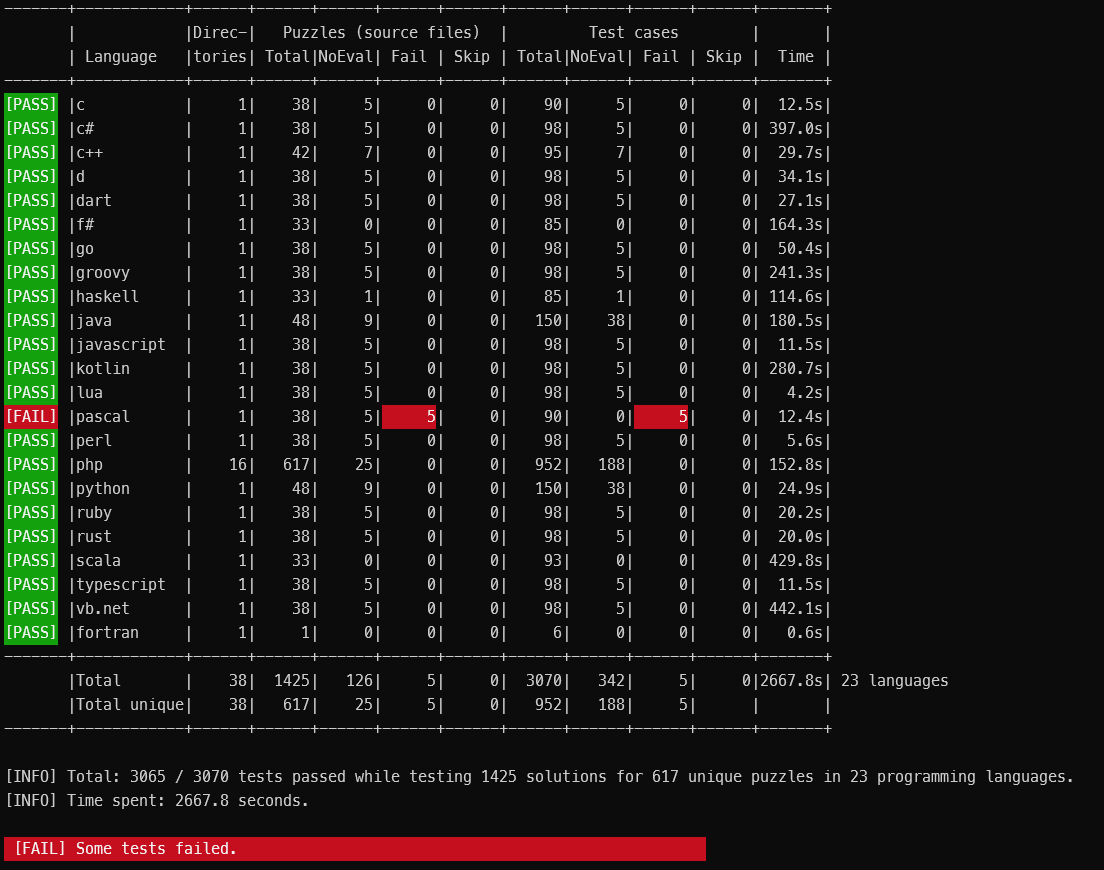
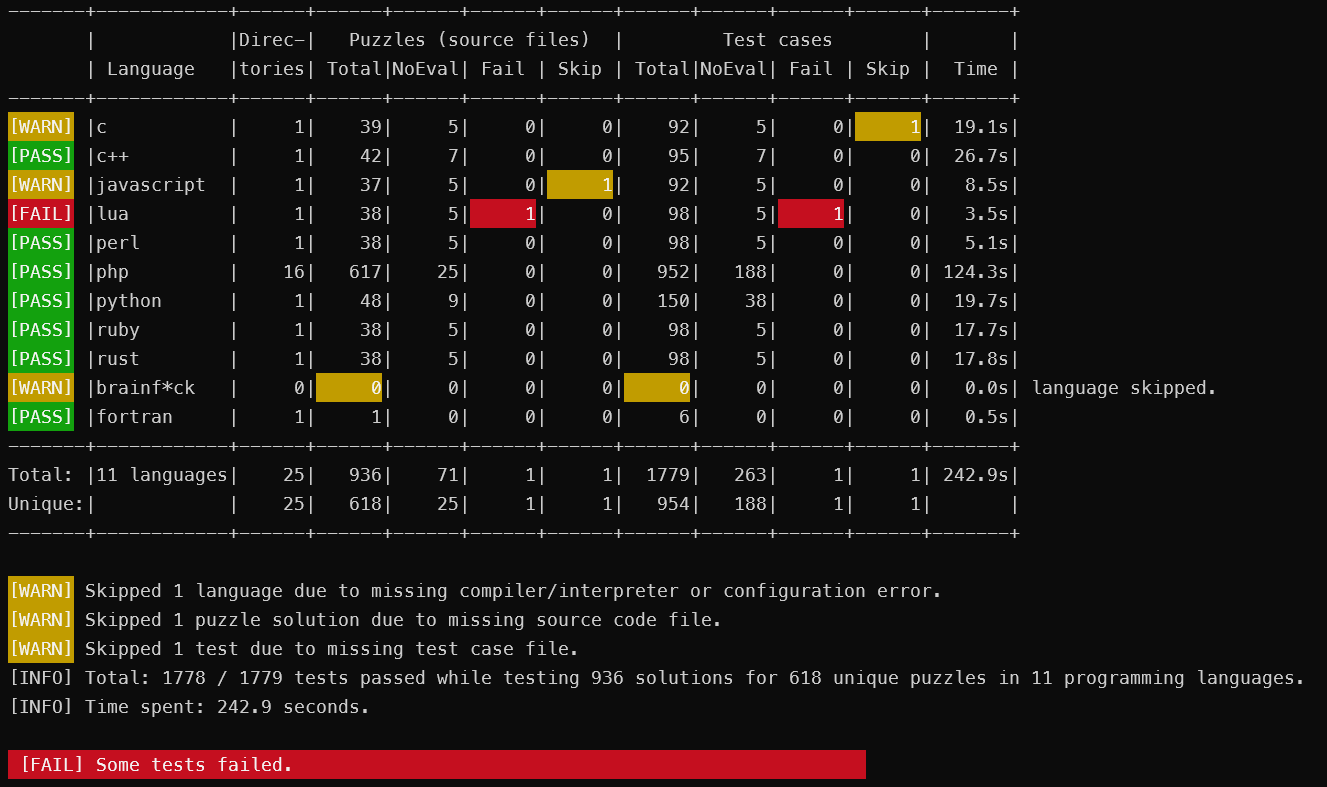
stats fixes

Changed region(s): [[0.0, 0.0, 0.9239, 1.0], [0.7699, 0.8539, 0.9855, 0.9149], [0.154, 0.3355, 0.1848, 0.3964]]

diff --git a/cgtest.php b/cgtest.php
@@ -25,6 +25,7 @@ namespace TBali\CGTest;
 $version = 'v1.4.0-dev';
 $zeroLanguageStat = [
     'countLanguages' => 0,
+    'countSkippedLanguages' => 0,
     'countDirectories' => 0,
     'countFiles' => 0,
     'countPassedFiles' => 0,
@@ -37,7 +38,6 @@ $zeroLanguageStat = [
     'countFailedTests' => 0,
     'countSkippedTests' => 0,
     'countDeletedFiles' => 0,
-    'countSkippedLanguages' => 0,
     'startTime' => 0,
     'spentTime' => 0,
 ];
@@ -1047,6 +1047,11 @@ foreach ($config['languages'] as $language) {
             // loop: for each test case for the puzzle
             while (true) {
                 ++$idxTest;
+                if ($idxTest >= 60) {
+                    echo $warnTag . 'Maximum number of test cases per puzzle is 60. Exceeded at: ' . $sourceFullFileName
+                        . PHP_EOL;
+                    break;
+                }
                 // --------------------------------------------------------------------
                 // check input and expected output
                 $stringIdxTest = str_pad(strval($idxTest), $testIdxWidth, '0', STR_PAD_LEFT);
@@ -1056,7 +1061,7 @@ foreach ($config['languages'] as $language) {
                     $config['inputPath'] . $config['inputPattern']
                 );
                 if (!file_exists($inputFullFileName)) {
-                    if ($countTestsForFile == 0) {
+                    if (($countTestsForFile == 0) and !$config['clean']) {
                         ++$languageStats[$language]['countSkippedTests'];
                         ++$countSkippedTestsForFile;
                     }
@@ -1067,7 +1072,7 @@ foreach ($config['languages'] as $language) {
                     [$language, $puzzleName, $stringIdxTest],
                     $config['expectedPath'] . $config['expectedPattern']
                 );
-                if (!$runOnlyCurrentPuzzle) {
+                if (!$runOnlyCurrentPuzzle and !$config['clean']) {
                     if (!file_exists($expectedFullFileName)) {
                         ++$languageStats[$language]['countSkippedTests'];
                         ++$countSkippedTestsForFile;
@@ -1121,6 +1126,10 @@ foreach ($config['languages'] as $language) {
                 ++$languageStats[$language]['countTests'];
                 if (!isset($puzzleStats[$puzzleName])) {
                     $puzzleStats[$puzzleName] = $zeroPuzzleStat;
+                }
+                if ($runOnlyCurrentPuzzle) {
+                    ++$languageStats[$language]['countRunOnlyTests'];
+                    $puzzleStats[$puzzleName]['runOnlyTests'] |= (1 << $idxTest);
                 }
                 if ($config['dry-run']) {
                     continue;
@@ -1181,10 +1190,6 @@ foreach ($config['languages'] as $language) {
                 $outputFileContents = substr($outputFileContents, 0, $i + 1);
                 // --------------------------------------------------------------------
                 // evaluate test result
-                if ($runOnlyCurrentPuzzle) {
-                    ++$languageStats[$language]['countRunOnlyTests'];
-                    $puzzleStats[$puzzleName]['runOnlyTests'] |= (1 << $idxTest);
-                }
                 if (!$runOnlyCurrentPuzzle and ($expectedFileContents !== $outputFileContents)) {
                     $testsFailed[] = $stringIdxTest;
                     ++$languageStats[$language]['countFailedTests'];
@@ -1258,11 +1263,11 @@ foreach ($languageStats as $stat) {
 }
 $languageStats['unique']['countDirectories'] = count($directoryStats);
 $languageStats['unique']['countFiles'] = count($puzzleStats);
-$languageStats['unique']['countPassedTests'] = 0;
 foreach ($puzzleStats as $puzzleStat) {
     $languageStats['unique']['countRunOnlyFiles'] += $puzzleStat['countRunOnlyFiles'];
     $languageStats['unique']['countTests'] += $puzzleStat['countTests'];
     $languageStats['unique']['countRunOnlyTests'] += $puzzleStat['countRunOnlyTests'];
+    $languageStats['unique']['countSkippedTests'] += $puzzleStat['countSkippedTests'];
     $countFailed = 0;
     $i = $puzzleStat['failedTests'];
     while ($i != 0) {
@@ -1371,7 +1376,8 @@ if ($config['stats'] and ($languageStats['totals']['countLanguages'] > 0)) {
     echo $separator . PHP_EOL;
     if ($languageStats['totals']['countLanguages'] > 1) {
         $stat = $languageStats['totals'];
-        $status = $emptyTag;
+        $msgCountLanguages = str_pad(strval($stat['countLanguages']), 2, ' ', STR_PAD_LEFT) . ' language'
+            . ($stat['countLanguages'] > 1 ? 's' : ' ');
         $msgCountDirectories = str_pad(substr(strval($stat['countDirectories']), 0, 6), 6, ' ', STR_PAD_LEFT);
         $msgCountFiles = str_pad(substr(strval($stat['countFiles']), 0, 6), 6, ' ', STR_PAD_LEFT);
         $msgCountRunOnlyFiles = str_pad(substr(strval($stat['countRunOnlyFiles']), 0, 6), 6, ' ', STR_PAD_LEFT);
@@ -1383,16 +1389,12 @@ if ($config['stats'] and ($languageStats['totals']['countLanguages'] > 0)) {
         $msgCountSkippedTests = str_pad(substr(strval($stat['countSkippedTests']), 0, 6), 6, ' ', STR_PAD_LEFT);
         $msgTime = str_pad(number_format($stat['spentTime'] / 1000000000, 1, '.', ''), 6, ' ', STR_PAD_LEFT);
         $msgCountDeletedFiles = '';
-        $msgLanguageSkipped = ' ' . $stat['countLanguages'] . ' language'
-            . ($languageStats['totals']['countLanguages'] > 1 ? 's' : '');
-        if ($stat['countSkippedLanguages'] > 0) {
-            $msgLanguageSkipped .= ' (' . $stat['countSkippedLanguages'] . ' skipped' . ')';
-        }
         if ($config['clean']) {
             $msgCountDeletedFiles = str_pad(strval($stat['countDeletedFiles']), 7, ' ', STR_PAD_LEFT) . '|';
         }
-        echo $status
-            . '|' . str_pad('Total', 12)
+        $msgLanguageSkipped = '';
+        echo 'Total: '
+            . '|' . $msgCountLanguages
             . '|' . $msgCountDirectories
             . '|' . $msgCountFiles
             . '|' . $msgCountRunOnlyFiles
@@ -1416,12 +1418,12 @@ if ($config['stats'] and ($languageStats['totals']['countLanguages'] > 0)) {
             $msgCountTests = str_pad(substr(strval($stat['countTests']), 0, 6), 6, ' ', STR_PAD_LEFT);
             $msgCountRunOnlyTests = str_pad(substr(strval($stat['countRunOnlyTests']), 0, 6), 6, ' ', STR_PAD_LEFT);
             $msgCountFailedTests = str_pad(substr(strval($stat['countFailedTests']), 0, 6), 6, ' ', STR_PAD_LEFT);
-            $msgCountSkippedTests = str_repeat(' ', 6);
+            $msgCountSkippedTests = str_pad(substr(strval($stat['countSkippedTests']), 0, 6), 6, ' ', STR_PAD_LEFT);
             $msgTime = str_repeat(' ', 7);
             $msgCountDeletedFiles = '';
             $msgLanguageSkipped = '';
-            echo $emptyTag
-                . '|' . str_pad('Total unique', 12)
+            echo 'Unique:'
+                . '|' . str_repeat(' ', 12)
                 . '|' . $msgCountDirectories
                 . '|' . $msgCountFiles
                 . '|' . $msgCountRunOnlyFiles
@@ -1450,7 +1452,7 @@ $wasLF = true;
 if ($languageStats['totals']['countSkippedLanguages'] > 0) {
     echo $warnTag . 'Skipped ' . $languageStats['totals']['countSkippedLanguages'] . ' language'
         . ($languageStats['totals']['countSkippedLanguages'] > 1 ? 's' : '')
-        . ' due to configuration errors.' . PHP_EOL;
+        . ' due to missing compiler/interpreter or configuration error.' . PHP_EOL;
     $wasLF = false;
 }
 if ($config['clean']) {
@@ -1482,7 +1484,7 @@ if ($languageStats['totals']['countSkippedFiles'] > 0) {
         $msg = ' for ' . $languageStats['unique']['countSkippedFiles'] . ' unique puzzle'
             . ($languageStats['unique']['countSkippedFiles'] > 1 ? 's' : '');
     }
-    echo $warnTag . 'Skipped ' . $languageStats['totals']['countSkippedFiles'] . ' solution'
+    echo $warnTag . 'Skipped ' . $languageStats['totals']['countSkippedFiles'] . ' puzzle solution'
         . ($languageStats['totals']['countSkippedFiles'] > 1 ? 's' : '')
         . $msg . ' due to missing source code file.' . PHP_EOL;
     $wasLF = false;
@@ -1490,7 +1492,7 @@ if ($languageStats['totals']['countSkippedFiles'] > 0) {
 if ($languageStats['totals']['countSkippedTests'] > 0) {
     echo $warnTag . 'Skipped ' . $languageStats['totals']['countSkippedTests'] . ' test'
         . ($languageStats['totals']['countSkippedTests'] > 1 ? 's' : '')
-        . ' due to missing test case files.' . PHP_EOL;
+        . ' due to missing test case file.' . PHP_EOL;
     $wasLF = false;
 }
 if ($languageStats['totals']['countTests'] == 0) {
